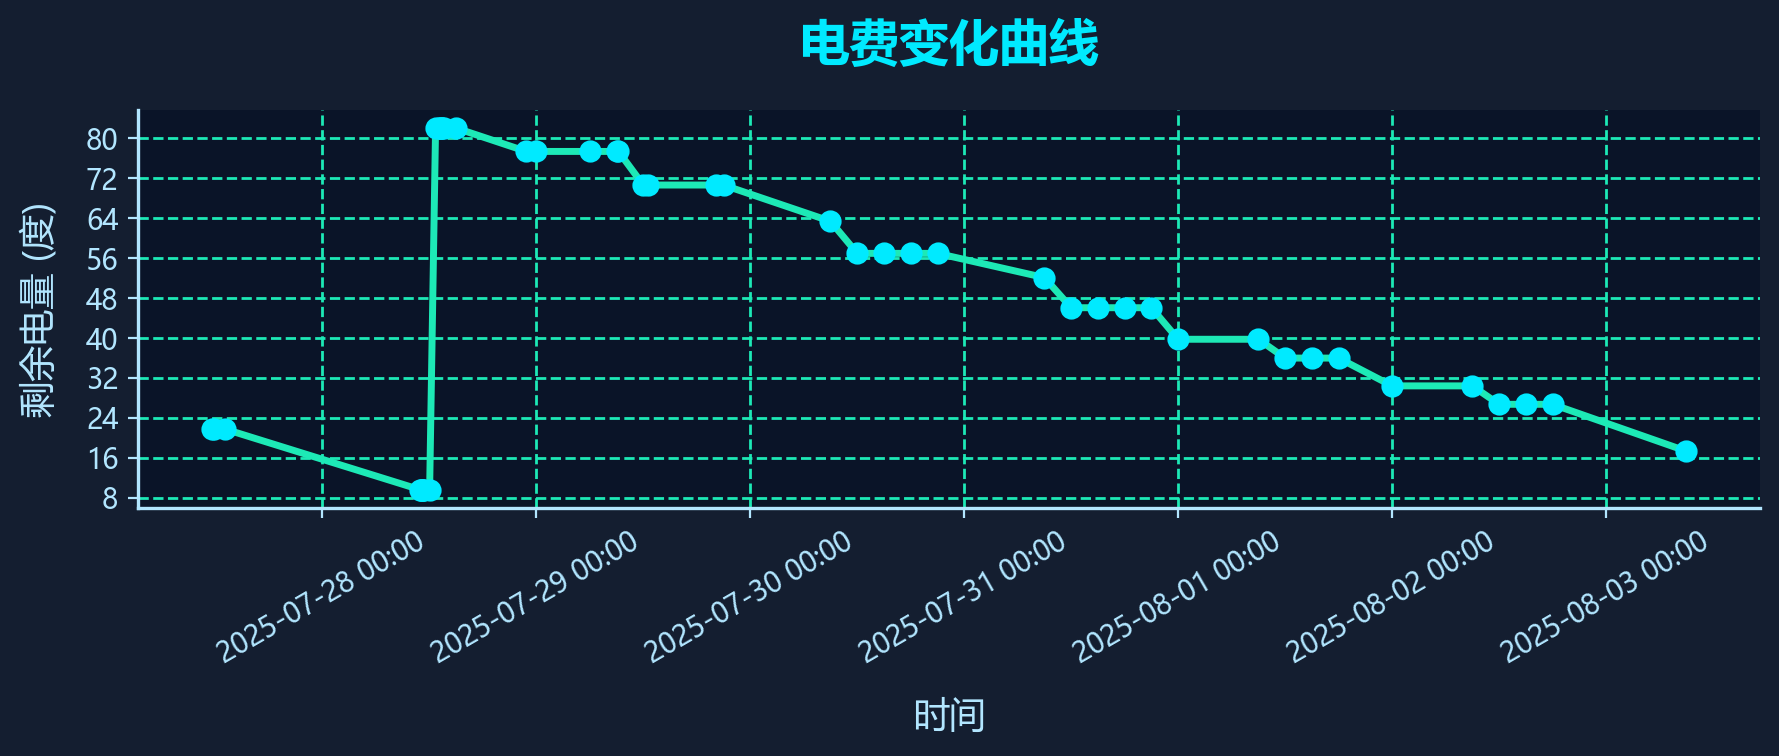
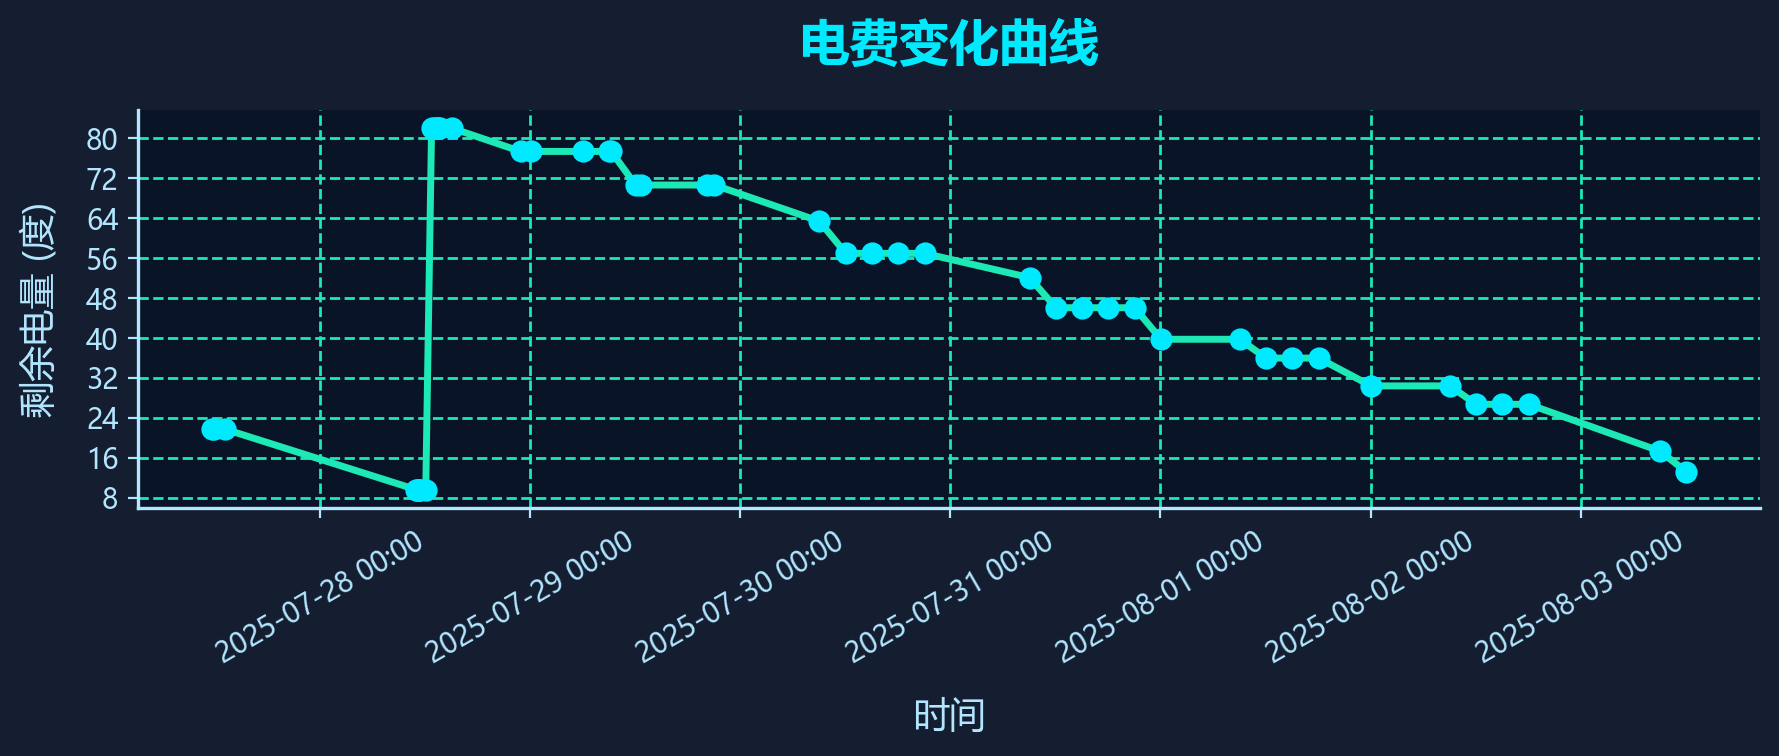
2025-08-03 12:03 自动提交电费变更

diff --git a/data/debug_page_source.html b/data/debug_page_source.html
@@ -2,7 +2,7 @@
     <meta http-equiv="Content-Type" content="text/html; charset=UTF-8">
     <meta http-equiv="X-UA-Compatible" content="IE=edge">
     <meta name="viewport" content="width=device-width, initial-scale=1, user-scalable=no">
-    <meta name="_csrf" content="4c54166f-02d8-4df3-ae32-532db023e61a">
+    <meta name="_csrf" content="116f03e5-1fcb-457a-9321-7ae496a4a173">
     <meta name="_csrf_header" content="X-CSRF-TOKEN">
     <link type="image/png" href="/epay/images/nju/icon.png" rel="shortcut icon">
     <link type="text/css" rel="stylesheet" href="/epay/css/wxpage/weui.min.css">
@@ -32,7 +32,7 @@
 
 
 <body>
-<div id="app"><div class="centent"><div class="top"><div class="clearfix"><span class="fl">持卡人姓名：<i>吴相民</i></span></div> <div class="clearfix"><span class="fl">校园卡余额：<i class="green">45.38元</i></span></div></div> <div class="line"></div> <div class="cont"><div class="clearfix"><span class="fl">缴费地址：<i>仙林校区 18幢 18栋第4层422</i></span></div> <div class="clearfix"><span class="fl">剩余电量：<i>17.34度</i><em></em></span></div> <!----> <!----></div> <div class="num clearfix"><div style="display: flex; flex-wrap: wrap;"><span class="active">10元</span><span class="">20元</span><span class="">50元</span><span class="">100元</span><span class="">200元</span><span class="">自定义</span></div></div> <div class="inputbox" style="display: none;"><input type="text" placeholder="请输入充值金额" pattern="[0-9]*" maxlength="4" id="amount"></div> <div class="footer">充值</div> <div class="desc">充值时间：每天00:05-23:55</div> <div class="wapat"><div class="wapat-inner"><div class="wapat-title">错误！</div> <div class="wapat-btn-box"><div class="wapat-btn wapat-btn-ok">确定</div></div></div></div></div></div>
+<div id="app"><div class="centent"><div class="top"><div class="clearfix"><span class="fl">持卡人姓名：<i>吴相民</i></span></div> <div class="clearfix"><span class="fl">校园卡余额：<i class="green">45.35元</i></span></div></div> <div class="line"></div> <div class="cont"><div class="clearfix"><span class="fl">缴费地址：<i>仙林校区 18幢 18栋第4层422</i></span></div> <div class="clearfix"><span class="fl">剩余电量：<i>13.20度</i><em></em></span></div> <!----> <!----></div> <div class="num clearfix"><div style="display: flex; flex-wrap: wrap;"><span class="active">10元</span><span class="">20元</span><span class="">50元</span><span class="">100元</span><span class="">200元</span><span class="">自定义</span></div></div> <div class="inputbox" style="display: none;"><input type="text" placeholder="请输入充值金额" pattern="[0-9]*" maxlength="4" id="amount"></div> <div class="footer">充值</div> <div class="desc">充值时间：每天00:05-23:55</div> <div class="wapat"><div class="wapat-inner"><div class="wapat-title">错误！</div> <div class="wapat-btn-box"><div class="wapat-btn wapat-btn-ok">确定</div></div></div></div></div></div>
 
 
 
